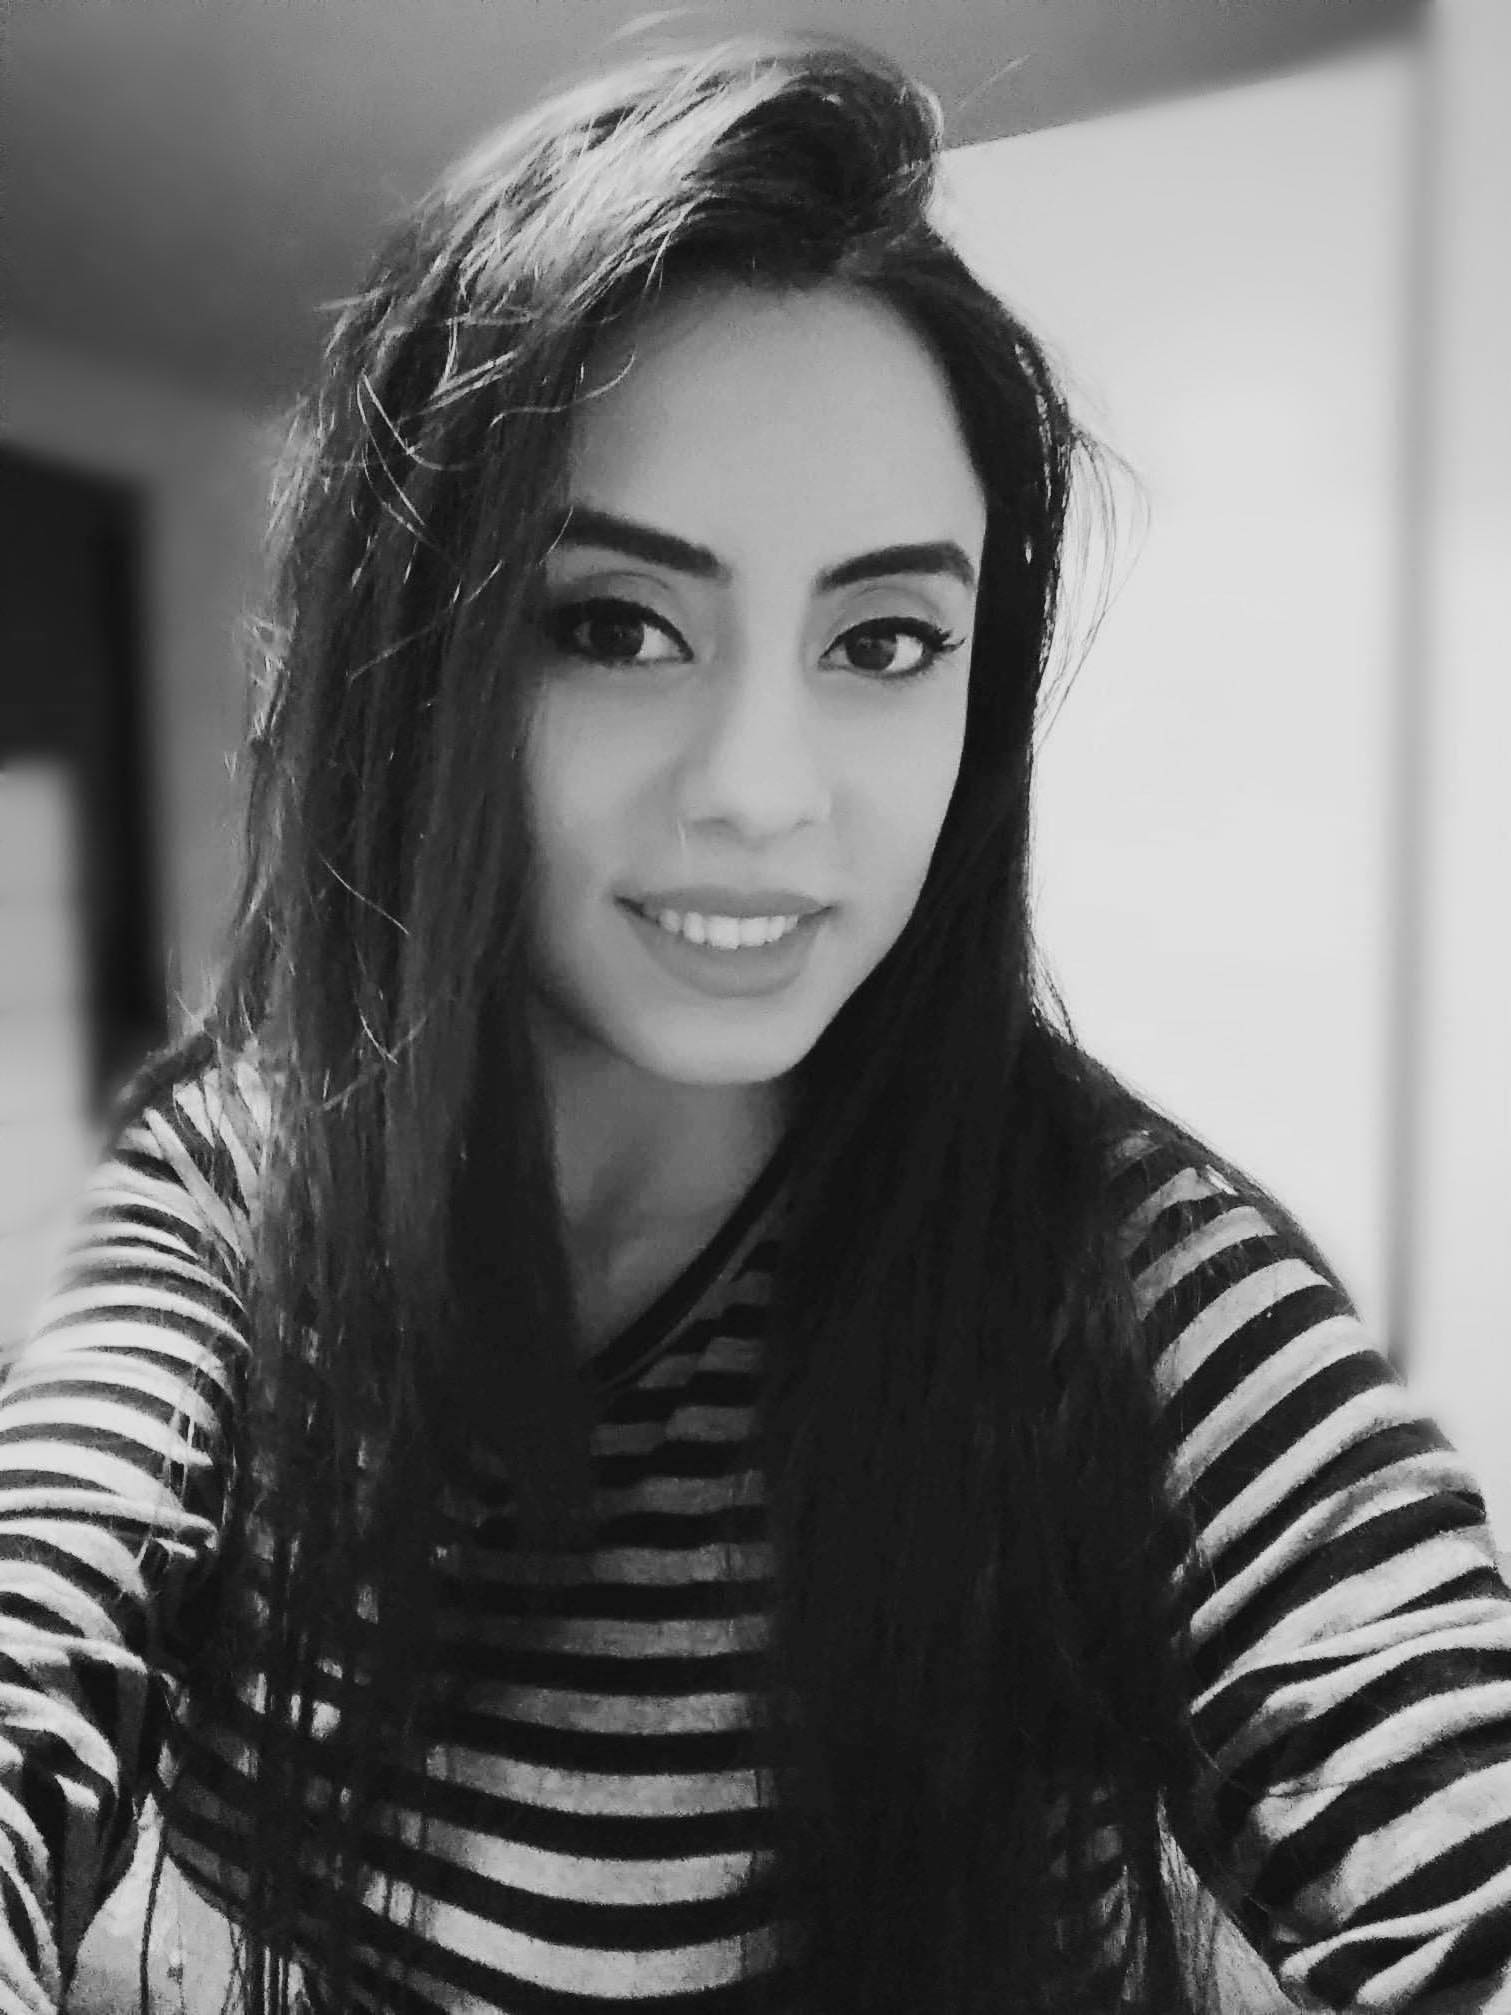
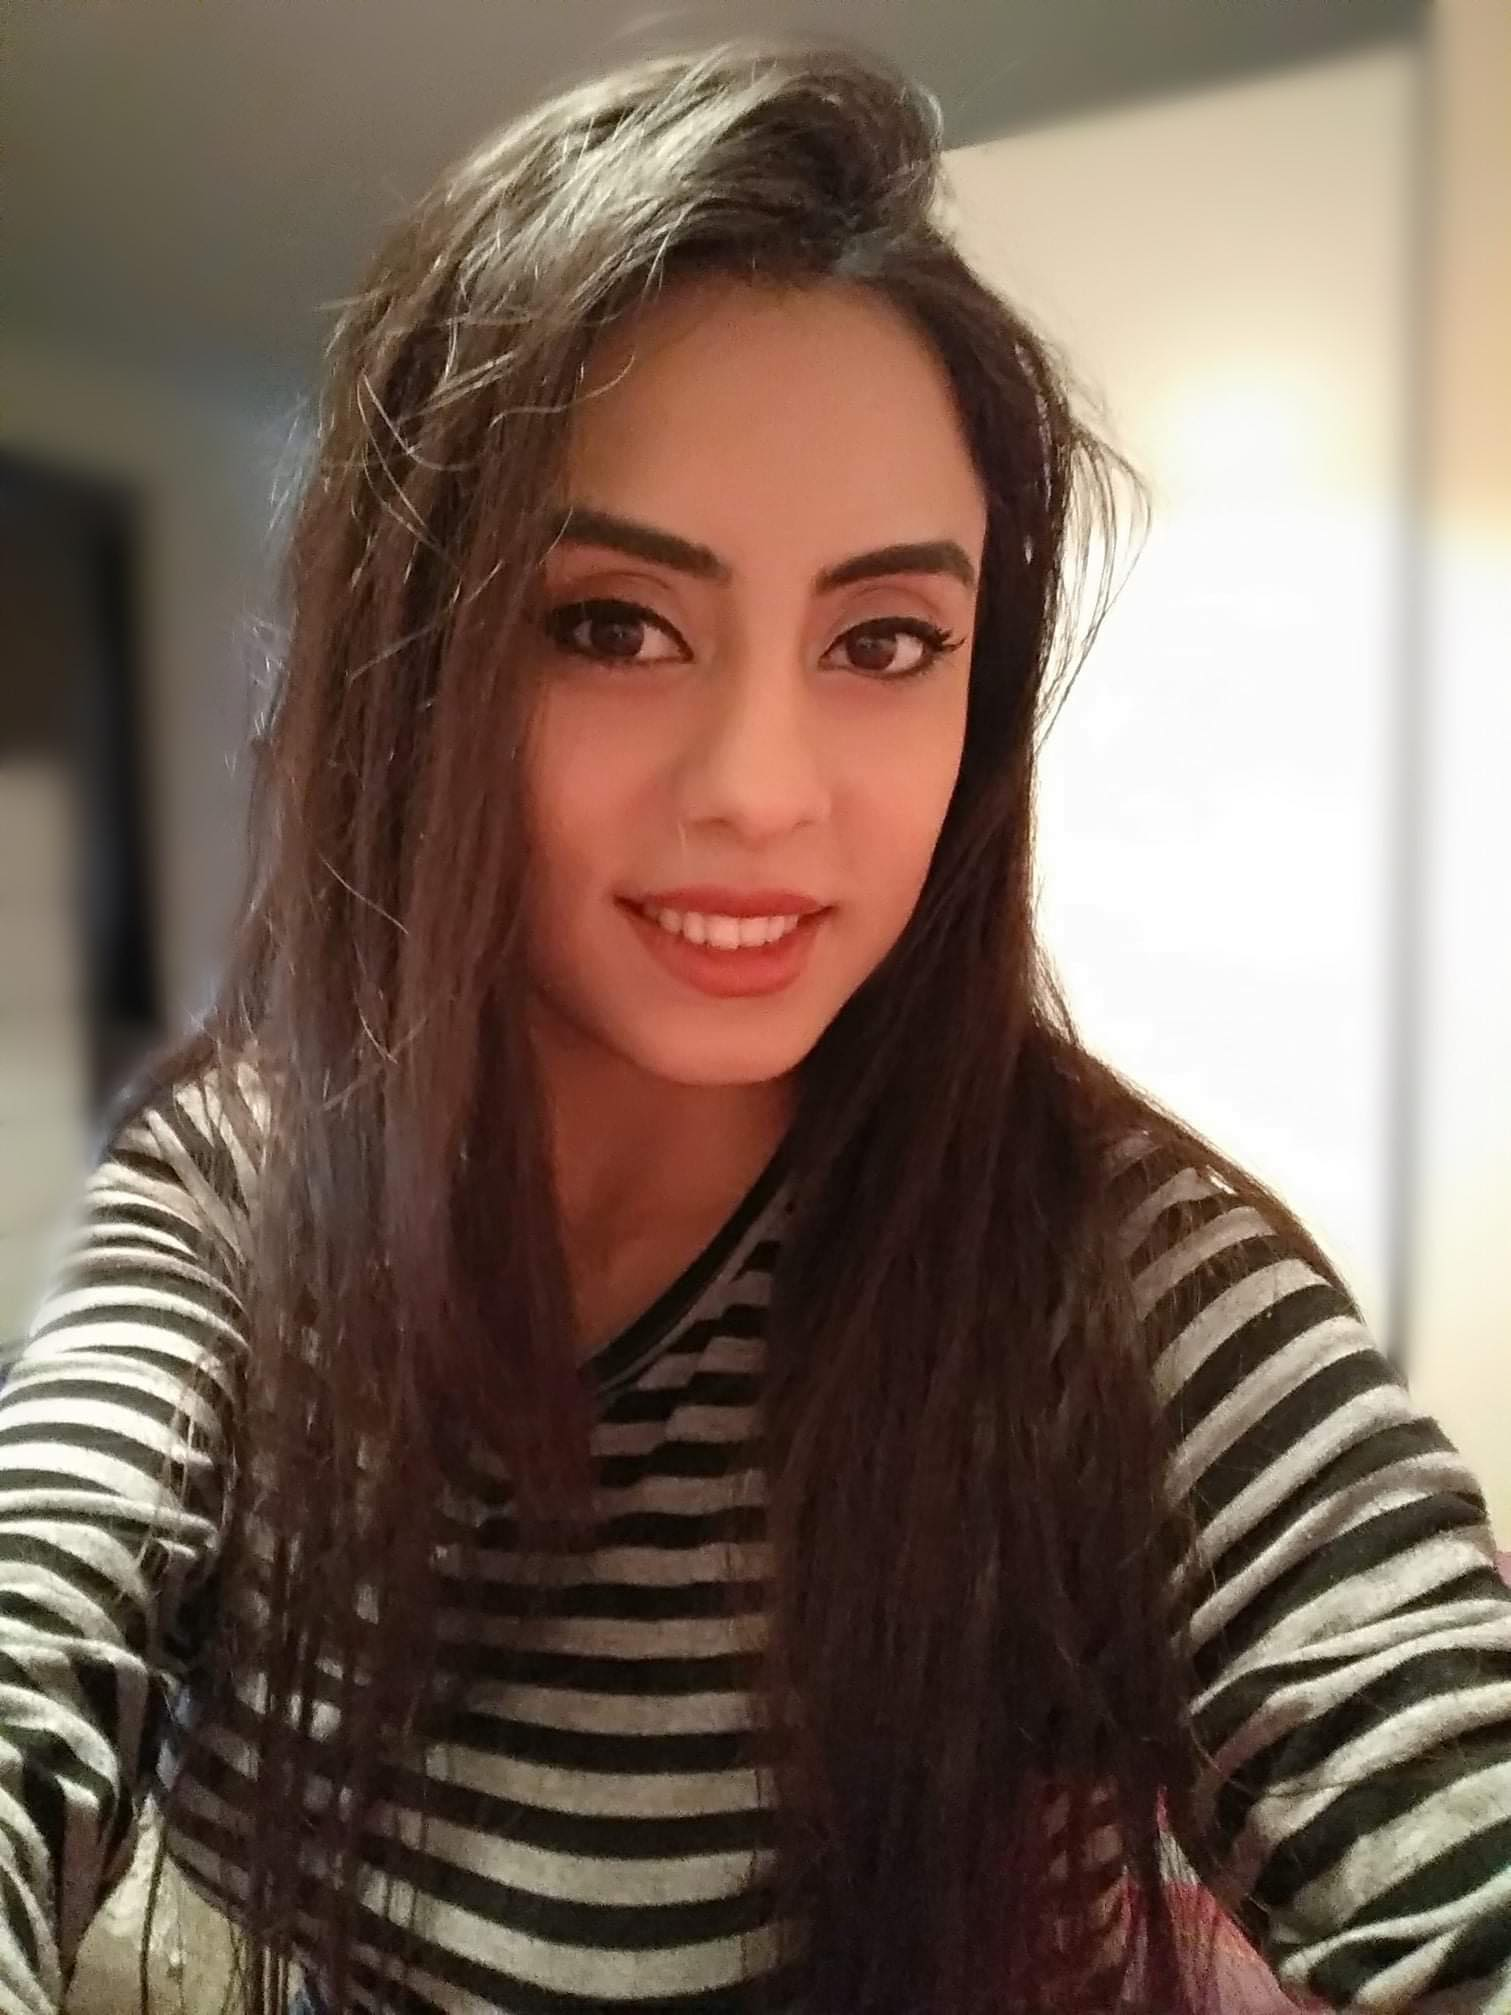
sticky navbar fixed

diff --git a/index.html b/index.html
@@ -25,19 +25,20 @@
 			<h1>Estera Maftei</h1>
 		</div>
 	</section>
-	    <header>
-			<nav class="navbar-sticky">
-				<a href="#">HOME</a>
-				<a href="#about-me">ABOUT</a>
-				<a href="#portfolio">PORTFOLIO</a>
-				<a href="#">CV</a>
-			</nav>
-		</header>
+
+	 <header>
+		<nav class="navbar-sticky">
+			<a href="#">HOME</a>
+			<a href="#about-me">ABOUT</a>
+			<a href="#portfolio">PORTFOLIO</a>
+			<a href="#">CV</a>
+		</nav>
+	</header>
 
 	<!-- BACKGROUND IMAGE WITH TEXT -->
 	<section>
 		<div>
-			<svg class="wave-top" xmlns="http://www.w3.org/2000/svg" viewBox="0 0 1440 319"><path fill="#080808" fill-opacity="1" d="M0,128L60,112C120,96,240,64,360,58.7C480,53,600,75,720,101.3C840,128,960,160,1080,144C1200,128,1320,64,1380,32L1440,0L1440,320L1380,320C1320,320,1200,320,1080,320C960,320,840,320,720,320C600,320,480,320,360,320C240,320,120,320,60,320L0,320Z"></path></svg>
+			<svg class="wave-top" xmlns="http://www.w3.org/2000/svg" viewBox="0 0 1440 319"><path fill="#000000" fill-opacity="1" d="M0,128L60,112C120,96,240,64,360,58.7C480,53,600,75,720,101.3C840,128,960,160,1080,144C1200,128,1320,64,1380,32L1440,0L1440,320L1380,320C1320,320,1200,320,1080,320C960,320,840,320,720,320C600,320,480,320,360,320C240,320,120,320,60,320L0,320Z"></path></svg>
 		</div>
 		<div class="container-content">	
 			<video class="moon-video" autoplay loop muted >
@@ -50,7 +51,7 @@
 		   </div>
 		</div>
 		<div>
-			<svg xmlns="http://www.w3.org/2000/svg" viewBox="0 0 1440 319"><path fill="#080808" fill-opacity="1" d="M0,128L60,112C120,96,240,64,360,58.7C480,53,600,75,720,101.3C840,128,960,160,1080,144C1200,128,1320,64,1380,32L1440,0L1440,0L1380,0C1320,0,1200,0,1080,0C960,0,840,0,720,0C600,0,480,0,360,0C240,0,120,0,60,0L0,0Z"></path></svg>
+			<svg xmlns="http://www.w3.org/2000/svg" viewBox="0 0 1440 319"><path fill="#000000" fill-opacity="1" d="M0,128L60,112C120,96,240,64,360,58.7C480,53,600,75,720,101.3C840,128,960,160,1080,144C1200,128,1320,64,1380,32L1440,0L1440,0L1380,0C1320,0,1200,0,1080,0C960,0,840,0,720,0C600,0,480,0,360,0C240,0,120,0,60,0L0,0Z"></path></svg>
 		</div>
 	</section>
 
@@ -63,7 +64,7 @@
 			</div>
 
 			<div class="my-picture border">
-				<img src="./resources/pictures/my-picture.png" alt="">
+				<img src="./resources/pictures/my-picture.jpeg" alt="">
 			</div>
 		</div>
 		<!-- PORTFOLIO -->

diff --git a/resources/style.css b/resources/style.css
@@ -12,7 +12,7 @@ html {
  }
 
 /*   NAVIGATION BAR   */
- section .name-top {
+  .name-top {
 	 display: flex;
 	 justify-content: center;
 	 padding-top: 2rem;
@@ -23,13 +23,16 @@ html {
    font-size: 4rem;
  }
 
- .navbar-sticky {
+ header {
 	z-index: 100;
 	position: sticky;
 	top: 0;
+ }
+  .navbar-sticky {
 	display: flex;
 	justify-content: center;
 	background: #fff;
+
  }
 
  .navbar-sticky a {
@@ -51,7 +54,7 @@ html {
 	 margin-top: 195px;
 	 display: flex;
 	 justify-content: space-between;
-	 background: rgb(8, 1, 1);
+	 background: rgb(3, 0, 0);
 	 z-index:10;
 	 position: relative;
  }
@@ -110,16 +113,19 @@ html {
 	  }
 /* ABOUT ME  */
 .container-about-me {
-	/* background: red; */
 	height: 300px;
 	width: 100%;
 	margin-top: -130px;
 	display: flex;
 	justify-content: space-around;
+
 }
 .my-picture {
+	border: 2px solid black;
 	width: 250px;
     height: 280px;
+	box-shadow: 13px 9px 15px -1px rgba(63, 62, 62, 0.32);
+
 }
 
  .my-picture img {
